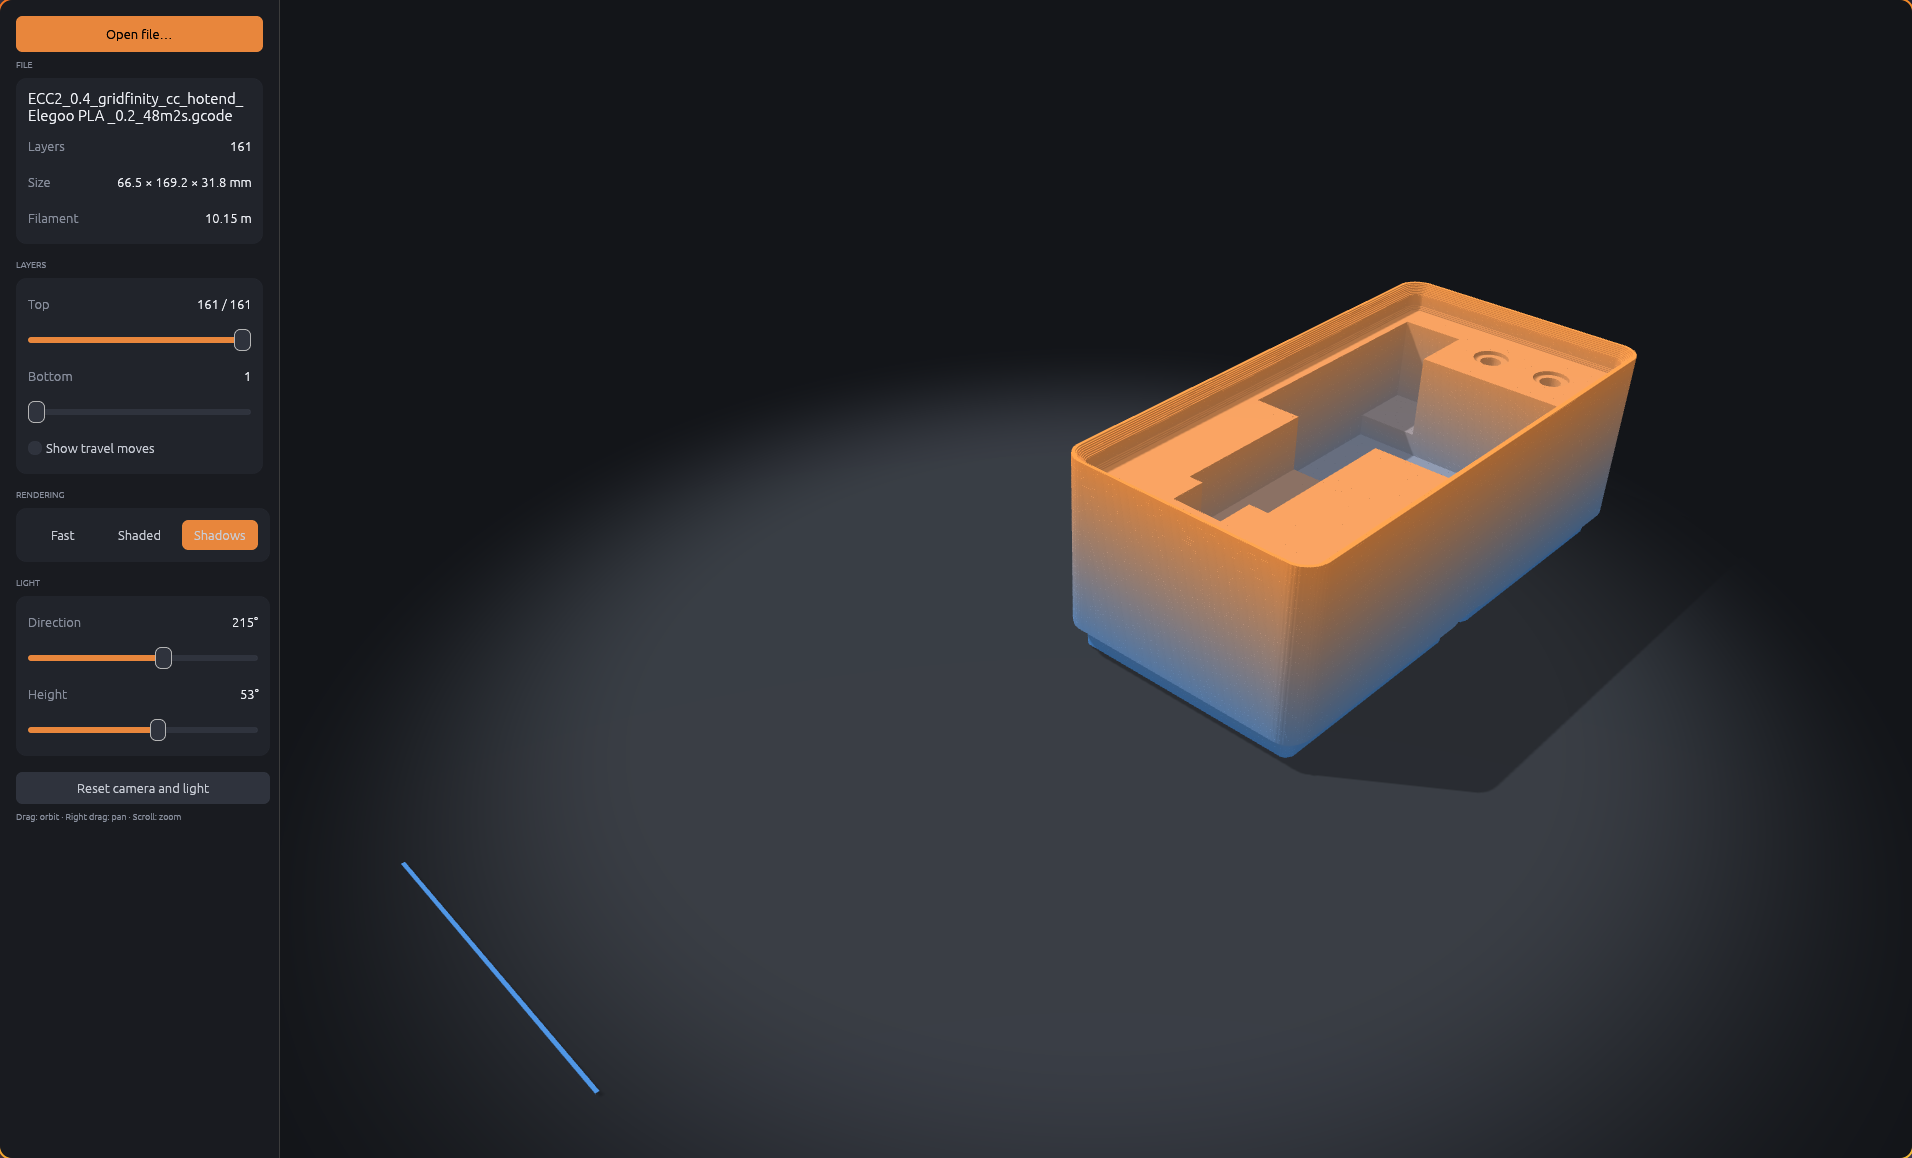
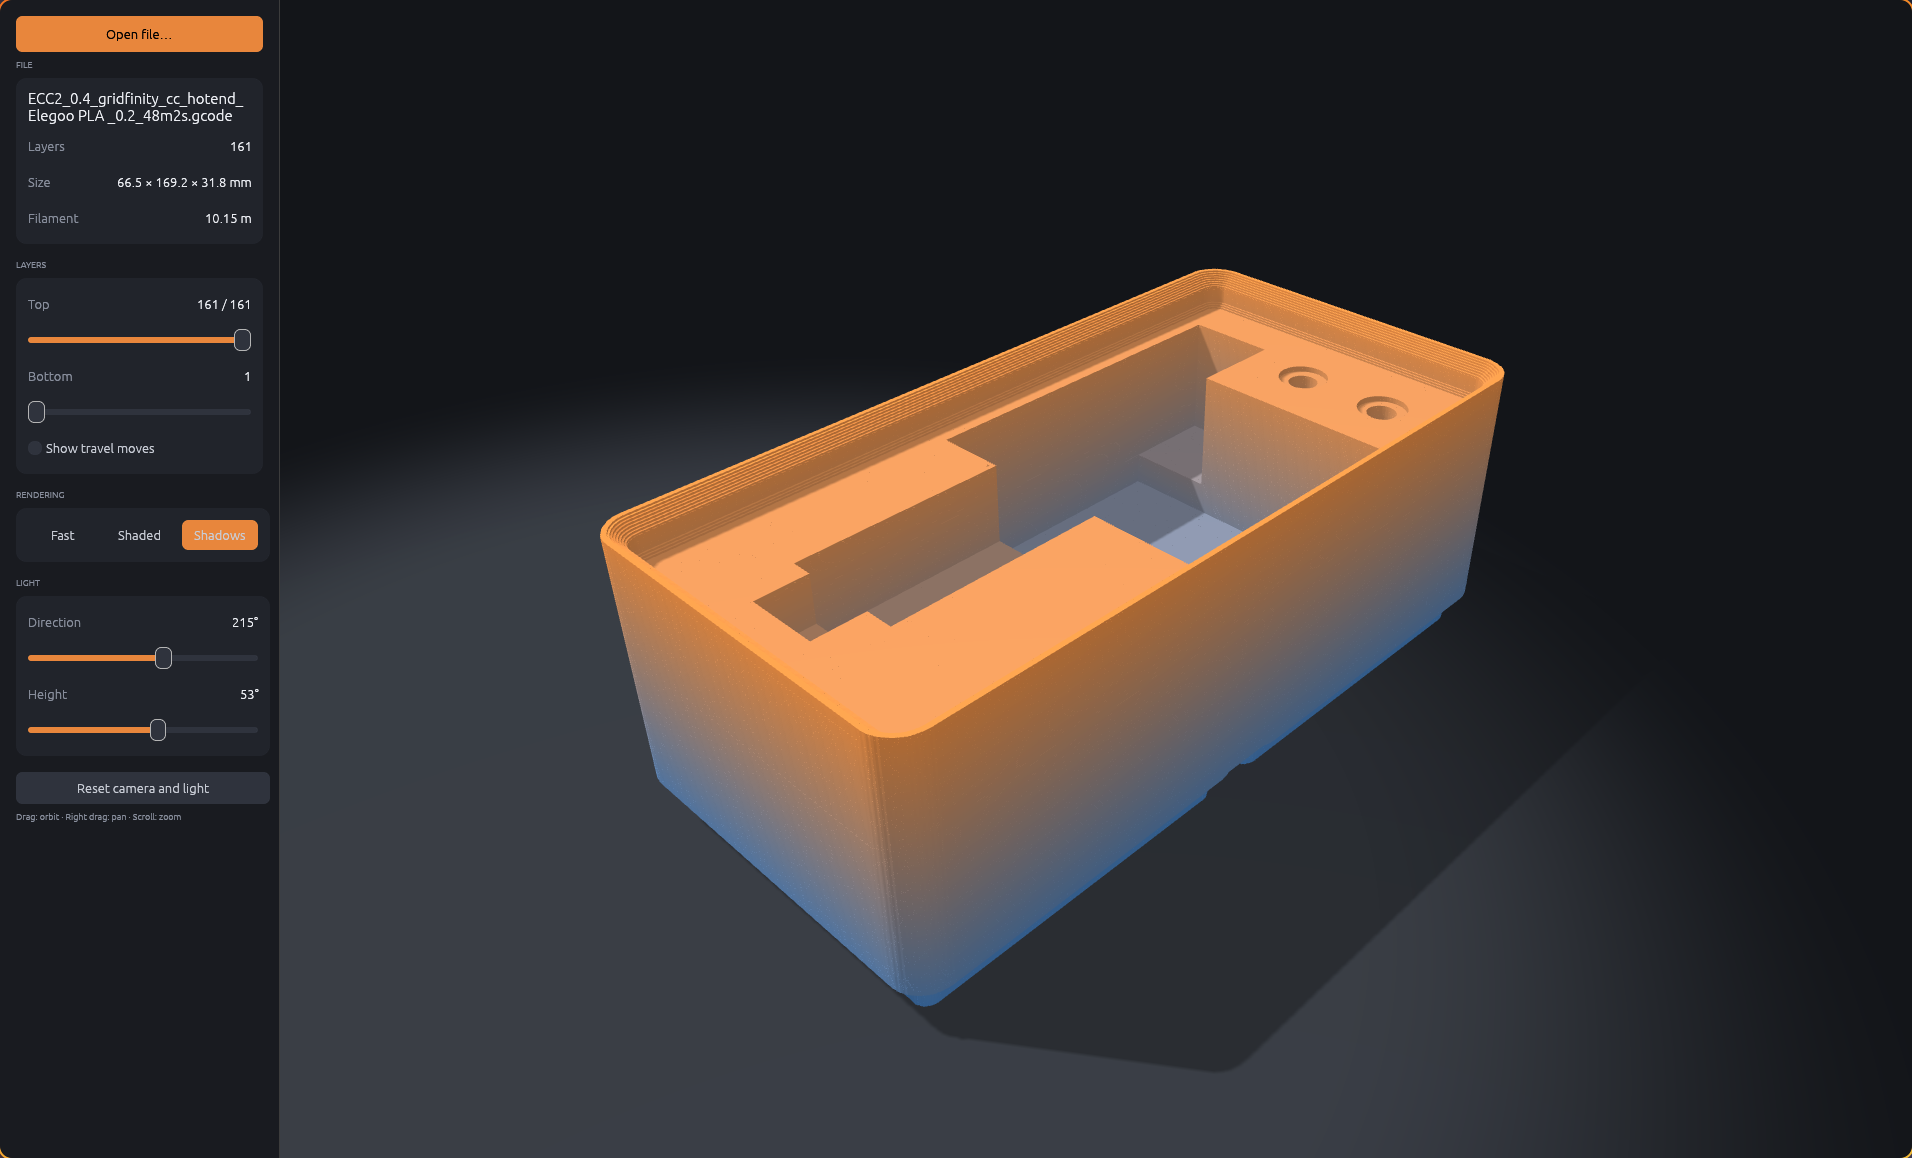
fix: Ignore purge lines when framing the camera
Compute fit bounds from X and Y extrusion points with the outermost
0.5% trimmed on each side, so a distant purge line no longer shrinks
the model in view. Retune the fit margin and refresh the screenshot.

Changed region(s): [[0.1234, 0.2176, 0.864, 1.0], [0.7714, 0.5596, 0.8949, 0.715]]

diff --git a/src/parse_gcode.rs b/src/parse_gcode.rs
@@ -3,6 +3,7 @@ use glam::Vec3;
 const ARC_SEGMENT_LENGTH_MM: f32 = 0.5;
 const LAYER_Z_EPSILON: f32 = 1e-4;
 const MM_PER_INCH: f32 = 25.4;
+const FIT_TRIM_FRACTION: f32 = 0.005;
 
 #[derive(Clone, Copy, Debug, PartialEq, Eq)]
 pub enum MoveKind {
@@ -24,6 +25,10 @@ pub struct Toolpath {
     pub layer_count: u32,
     pub min: Vec3,
     pub max: Vec3,
+    /// Bounds for framing the camera: X and Y exclude the outermost extrusion
+    /// points so a distant purge line does not shrink the model in view.
+    pub fit_min: Vec3,
+    pub fit_max: Vec3,
     pub filament_mm: f32,
 }
 
@@ -274,19 +279,33 @@ fn normalize_command(command: &str) -> String {
     }
 }
 
+fn trimmed_range(mut values: Vec<f32>) -> (f32, f32) {
+    let last = values.len() - 1;
+    let trim = (last as f32 * FIT_TRIM_FRACTION) as usize;
+    let low = *values.select_nth_unstable_by(trim, f32::total_cmp).1;
+    let high = *values.select_nth_unstable_by(last - trim, f32::total_cmp).1;
+    (low, high)
+}
+
 fn compute_bounds(toolpath: &mut Toolpath) {
-    let mut points = toolpath
+    let points: Vec<Vec3> = toolpath
         .segments
         .iter()
         .filter(|segment| segment.kind == MoveKind::Extrude)
         .map(|segment| segment.to)
-        .peekable();
-    let Some(first) = points.peek().copied() else {
+        .collect();
+    let Some(first) = points.first().copied() else {
         return;
     };
-    let (min, max) = points.fold((first, first), |(min, max), p| (min.min(p), max.max(p)));
+    let (min, max) = points
+        .iter()
+        .fold((first, first), |(min, max), p| (min.min(*p), max.max(*p)));
     toolpath.min = min;
     toolpath.max = max;
+    let (fit_min_x, fit_max_x) = trimmed_range(points.iter().map(|p| p.x).collect());
+    let (fit_min_y, fit_max_y) = trimmed_range(points.iter().map(|p| p.y).collect());
+    toolpath.fit_min = Vec3::new(fit_min_x, fit_min_y, min.z);
+    toolpath.fit_max = Vec3::new(fit_max_x, fit_max_y, max.z);
 }
 
 pub fn parse_gcode(source: &str) -> Toolpath {
@@ -367,6 +386,20 @@ mod tests {
         assert!(toolpath.segments.len() > 10);
         let end = toolpath.segments.last().unwrap().to;
         assert!((end.x).abs() < 1e-3 && (end.y - 10.0).abs() < 1e-3);
+    }
+
+    #[test]
+    fn should_exclude_distant_purge_line_from_fit_bounds() {
+        let mut source = String::from("G1 X-50 Y-50 Z0.2\nG1 X-10 Y-50 E1\n");
+        for step in 0..1000 {
+            let x = 100.0 + (step % 40) as f32;
+            let y = 100.0 + (step / 40) as f32;
+            source.push_str(&format!("G1 X{x} Y{y} E{}\n", 2 + step));
+        }
+        let toolpath = parse_gcode(&source);
+        assert_eq!(toolpath.min.x, -10.0);
+        assert!(toolpath.fit_min.x >= 100.0 && toolpath.fit_min.y >= 100.0);
+        assert!(toolpath.fit_max.x <= 140.0);
     }
 
     #[test]

diff --git a/src/viewer_app.rs b/src/viewer_app.rs
@@ -84,7 +84,7 @@ impl ViewerApp {
             .get_mut::<ToolpathGpu>()
             .expect("toolpath gpu resources registered at startup")
             .upload_mesh(&render_state.device, &mesh, toolpath.min, toolpath.max);
-        self.camera.fit_bounds(toolpath.min, toolpath.max);
+        self.camera.fit_bounds(toolpath.fit_min, toolpath.fit_max);
         self.first_layer = 0;
         self.last_layer = toolpath.layer_count - 1;
         self.error_message = None;
@@ -192,7 +192,7 @@ impl ViewerApp {
             .clicked()
         {
             self.camera
-                .fit_bounds(model.toolpath.min, model.toolpath.max);
+                .fit_bounds(model.toolpath.fit_min, model.toolpath.fit_max);
             self.light = LightAngles::default();
         }
         ui.label(weak_text("Drag: orbit · Right drag: pan · Scroll: zoom").small());

diff --git a/src/orbit_camera.rs b/src/orbit_camera.rs
@@ -5,7 +5,7 @@ const MAX_PITCH_RADIANS: f32 = 1.55;
 const ORBIT_RADIANS_PER_POINT: f32 = 0.01;
 const ZOOM_PER_SCROLL_POINT: f32 = 0.002;
 const MIN_DISTANCE_MM: f32 = 1.0;
-const FIT_MARGIN: f32 = 0.85;
+const FIT_MARGIN: f32 = 1.2;
 const DEFAULT_YAW_RADIANS: f32 = -0.8;
 const DEFAULT_PITCH_RADIANS: f32 = 0.6;
 
